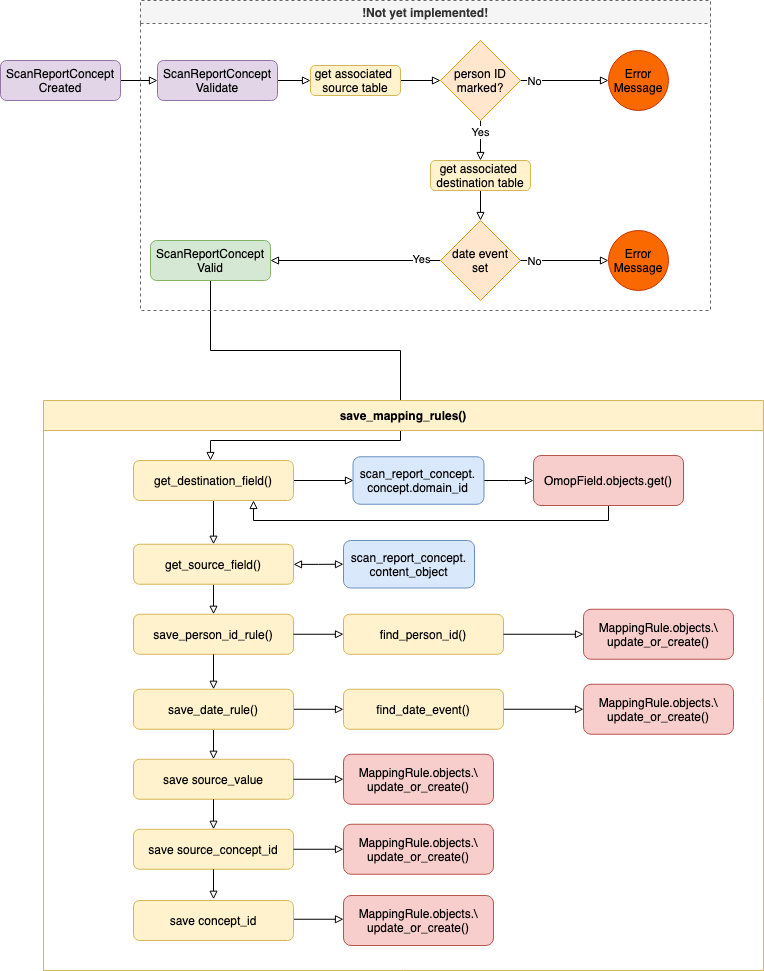
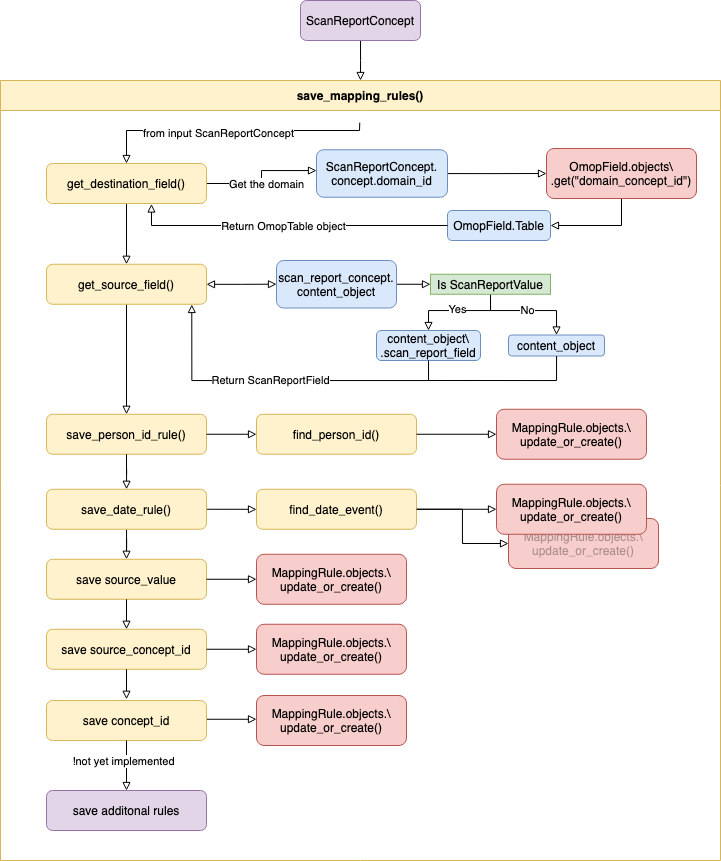
adding more documentation on rule generation

diff --git a/public/docs/MappingPipeline/mapping-rules.md b/public/docs/MappingPipeline/mapping-rules.md
@@ -1,20 +1,76 @@
-Mapping Rules determine how to link (and potentially modify) between `source_fields` (input data) and `destination_fields` (output data) when building `CDM` objects. 
+Mapping Rules determine how to link (and potentially modify) between `source_fields` (in
+put data) and `destination_fields` (output data) when building `CDM` objects. 
 
-## Validating Rules
+## Prerequisites 
 
-A validation of the `ScanReportConcept` step is needed ({==!not implmented yet==}).
+Validation of `ScanReportConcept` occurs when they themselves are created. Their creation will fail if:
 
-1. `ScanReportConcept` maps between a source {++field++} or {++value++} and a __concept__ via `ScanReportConcept.content_type`. From either of these, it is possible to find the associated source {++table++}.
-1. The associated table must have a column (field) marked to be the `person_id`
-1. `ScanReportConcept.concept.domain_id` can be used to work out what `cdm` object is to be created, e.g. `person`, `condition_occurrence`, `measurement`, `observation`... etc. The associated table must __also__ have a column marked to be a `date_event` for this domain/object.
+1. The associated `ScanReportTable` does not have a `person_id` marked.  
+1. The associated `ScanReportTable` does not have a `date_event` marked.
+
+These are requirements for building the mapping rules
 
 ## Building Rules
 
-For each `ScanReportConcept` that is created the procedure to build Mapping-Rules proceeds as follows:
+For each `ScanReportConcept` that is created, the procedure to build Mapping-Rules proceeds as follows:
 
 1. The {++destination_field++} (`OmopField` object) of the `<domain>_concept_id` is found using `ScanReportConcept.concept.domain_id`. The {++destination_table++} is linked to the object.
-1. From the {++source_field++} or {++source_value++} of the `ScanReportConcept.content_type` the {++source_table++} is found.
-1. A MappingRule is created linking the `person_id` of the found {++destination_table++}, a field which every `CDM` object contains, with the current {++source_table++} and {++source_value++} or {++source_field++}, as well as with the `concept`.
+
+1. From the {++source_field++} or {++source_value++} of the `ScanReportConcept.content_type` the {++source_table++} is found.  
+
+1. At least {== five ==} common mapping rules are first created:
+
+### 1. Person ID
+  Is created for the `destination_field` of the (already found) `destination_table`:
+  
+   *  Every `CDM` object contains a `person_id`  
+   *  The rule is built with the current `source_table` and `source_value` or `source_field`, as well as with the `concept`, linking it to the `destination_table`.  
+
+
+### 2. Date Events
+At least one date based `destination_field` of the associated `destination_table` is created:
+
+   * Every `CDM` object must contain at least one `date_event`    
+   * They are determined by the global variable `m_date_field_mapper` which is defined in `services_rules.py`:      
+```python
+m_date_field_mapper = {
+    'person': ['birth_datetime'],
+    'condition_occurrence': ['condition_start_datetime','condition_end_datetime'],
+    'measurement':['measurement_datetime'],
+    'observation':['observation_datetime']
+}
+```
+   * As can be seen, most CDM objects have one date event, however `condition_occurrence` is an example where two date events are/were needed
+!!! info
+    This was a request from the data-team to also map `condition_end_datetime`, with the current implementation, the `condition_start_datetime == condition_end_datetime `.
+!!! attention
+    OHDSI/OMOP say the standard is to set `condition_end_datetime = condition_start_datetime + 30 days`
+    Previously this was handled automatically by the ETL-Tool, and via `operations`, which is now no-longer used.
+
+
+  *  The rule is built with the current `source_table` from the `content_object` (`source_value` or `source_field`), as well as with the `concept`, linking it to the `destination_table`.
+
+### 3. Source Value
+
+   * A rule is created by finding the `<domain>_source_value` (`OmopField`) for the current `destination_table`. As with previous rules, the rule links this with the `concept` and the `source_table` and `source_field`.
+
+!!! attention 
+    This rule could be duplicated for the `destination_field` called `value_as_number` (or `value_as_float`). This appears in `measurement` and is a clone of `source_value`, with a different output format (FLOAT instead of CHAR). Formatting of rules is handled by the ETL-Tool, and therefore from the mapping-pipeline point of view, these rules are the same.
+
+### 4. Concept ID
+
+   * A rule is created by finding the `<domain>_concept_id` (`OmopField`) for the current `destination_table`. As with previous rules, the rule links this with the `concept` and the `source_table` and `source_field`.
+
+
+### 5. Source Concept ID
+
+   * A rule is created by finding the `<domain>_source_concept_id` (`OmopField`) for the current `destination_table`. As with previous rules, the rule links this with the `concept` and the `source_table` and `source_field`.
+
+!!! attention
+    In the current implementation and validation, we force all concept IDs to be Standard. This means that always `<domain>_source_concept_id == <domain>_concept_id`. We may need to review this for the future and allow a `source_concept` and aswell as a `concept` object to be saved to a `ScanReportConcept`. The logic could be that if a `source_concept` is not `null` then `<domain>_source_concept_id != <domain>_concept_id`, which would not affect exisiting `ScanReportConcept` objects that are in the current database.
+
+
+
 
 
 ### Schematic Diagram
